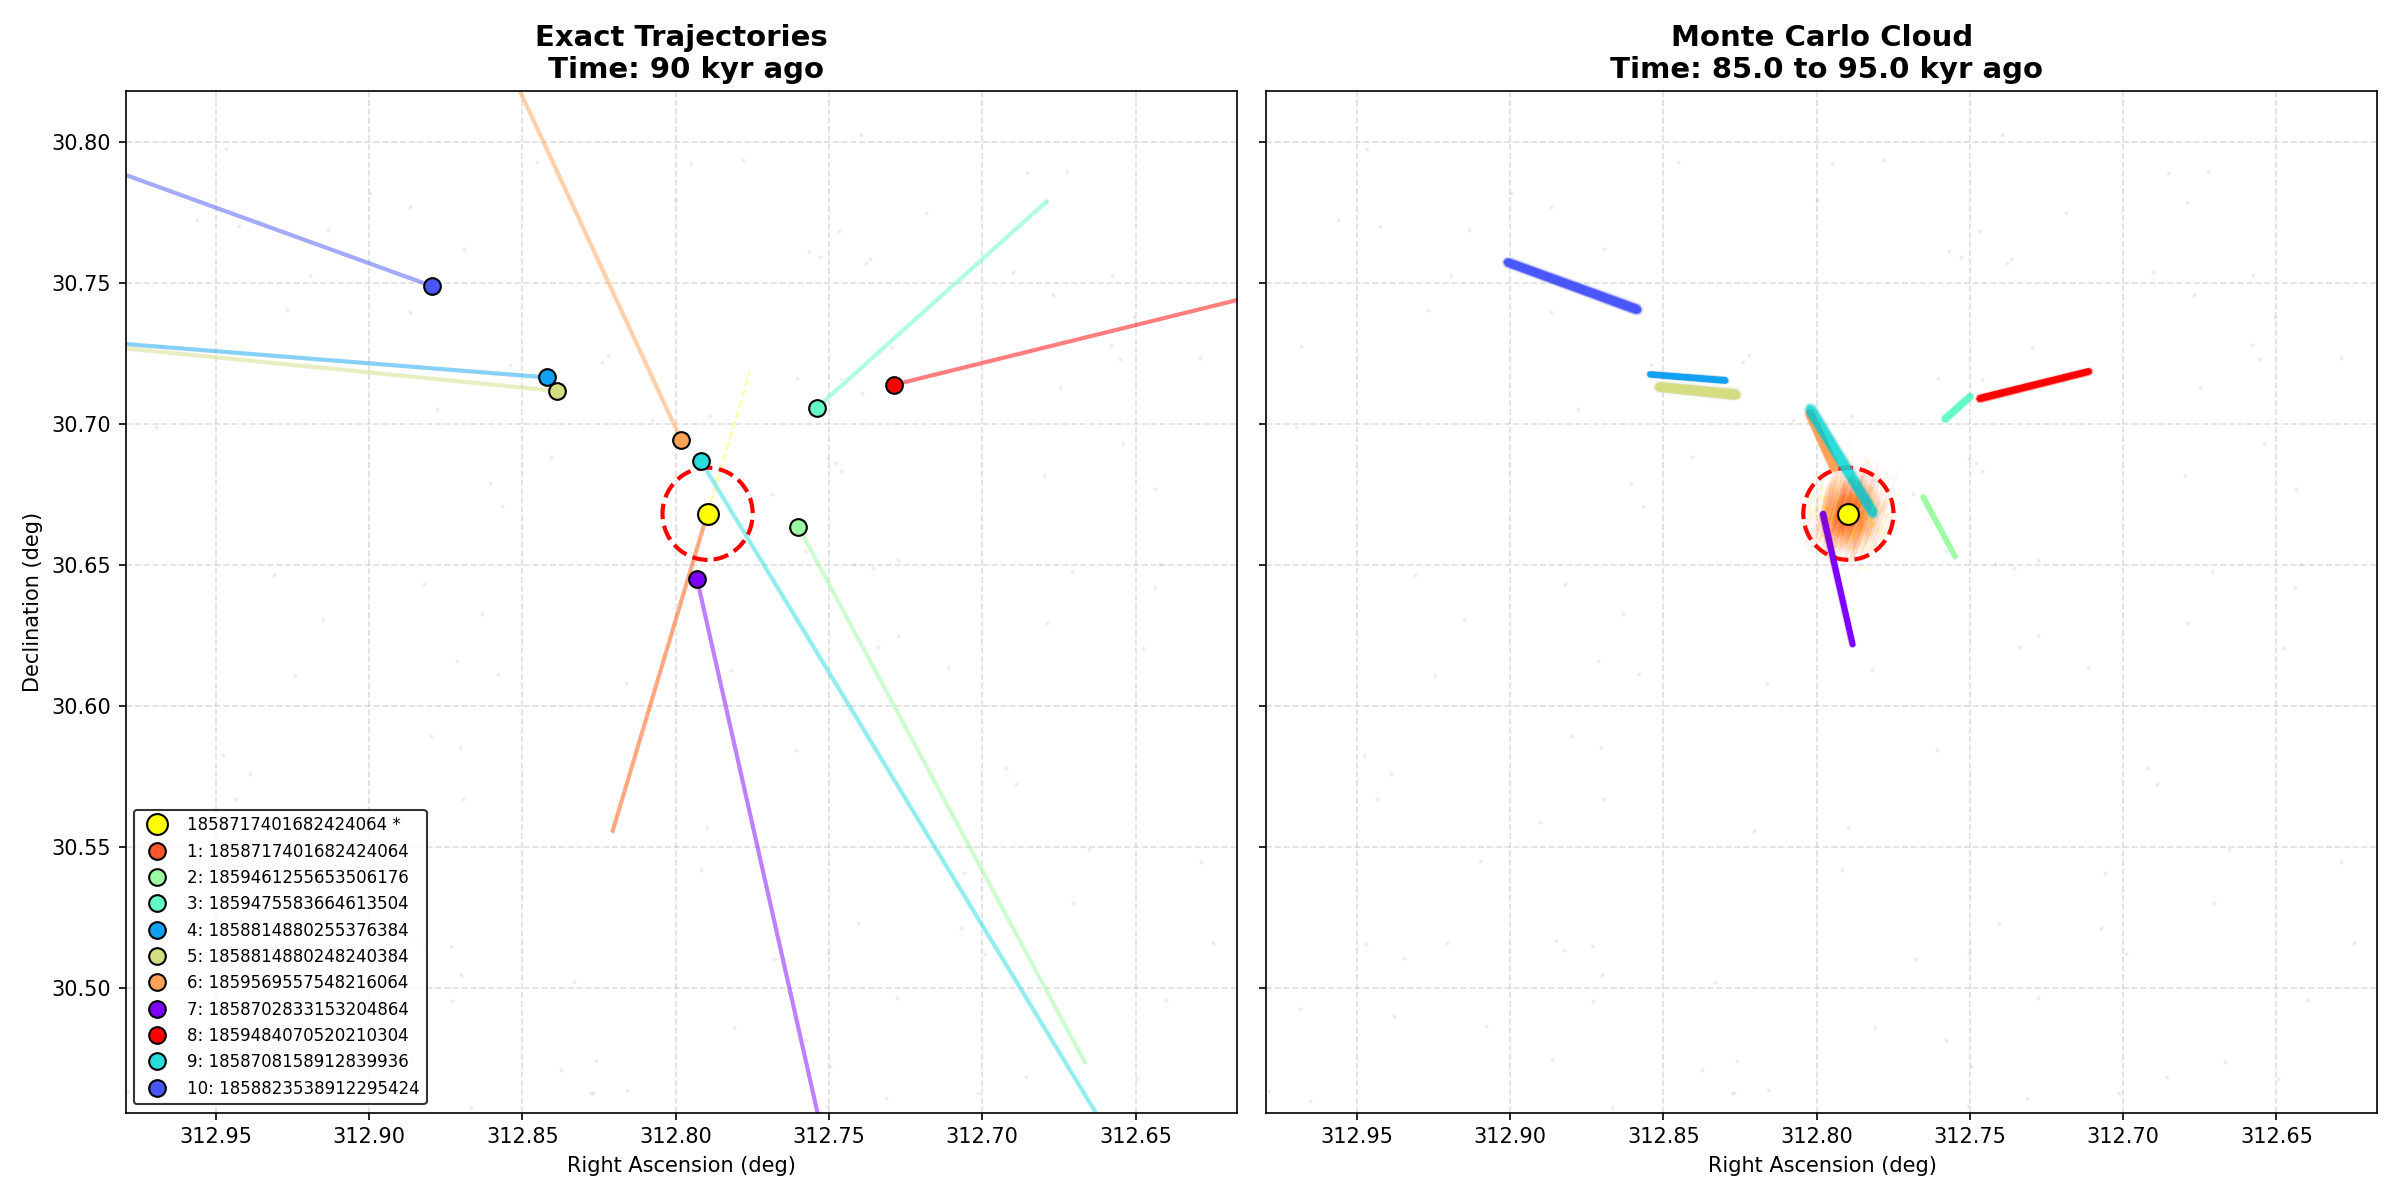
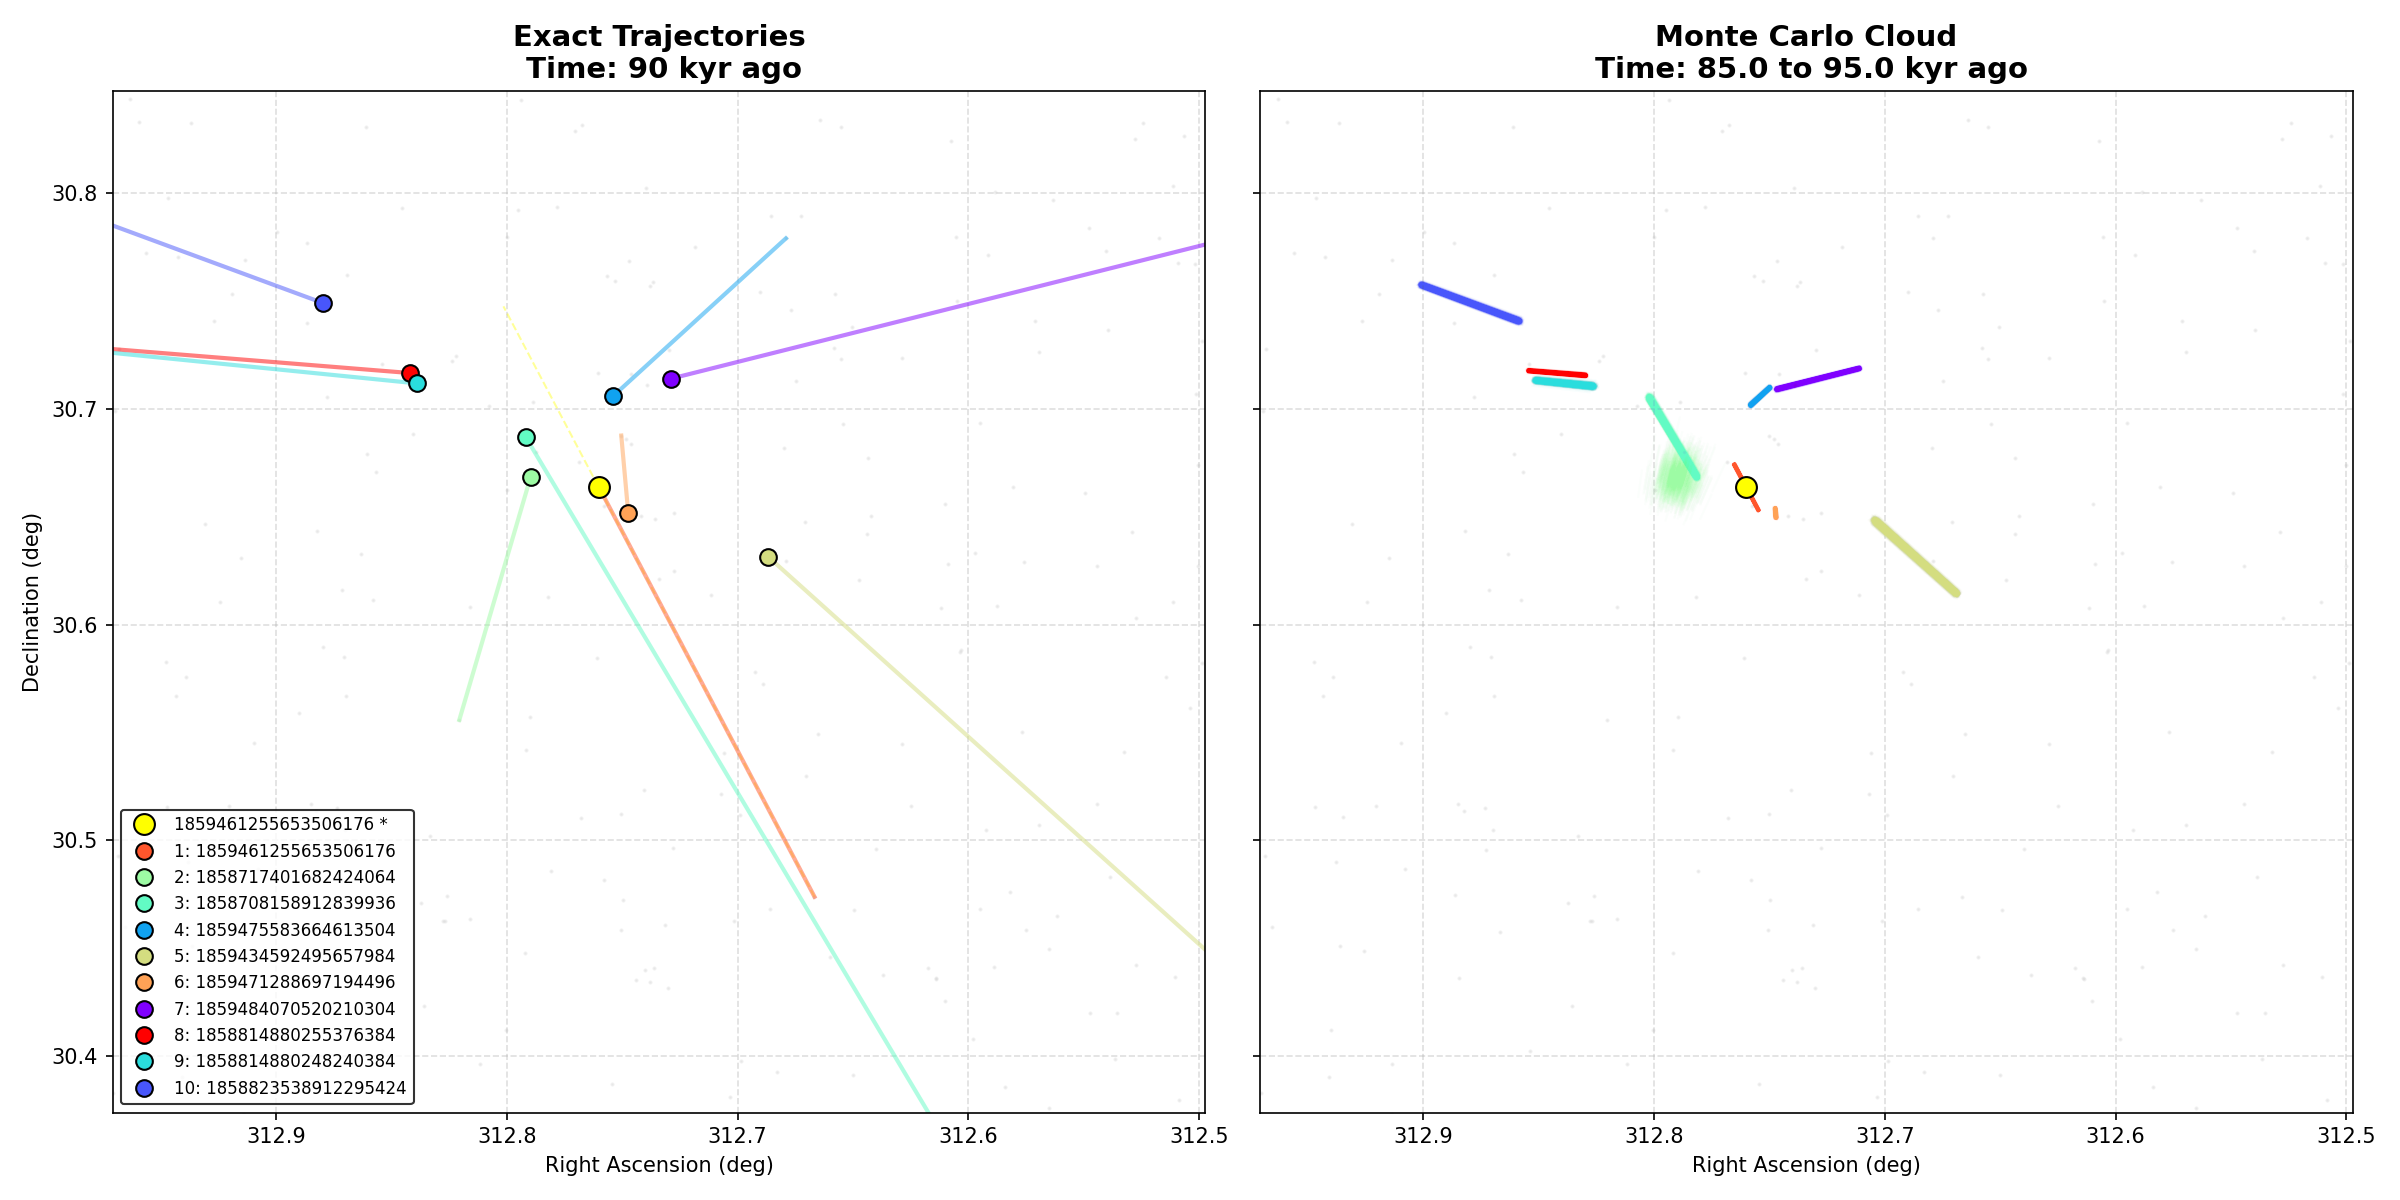
intersections probability

diff --git a/moving_target/moving_target.py b/moving_target/moving_target.py
@@ -5,6 +5,15 @@ from pygaia.astrometry.coordinates import EpochPropagation
 import extinction 
 from PIL import Image
 from matplotlib.patches import Ellipse
+import astropy.io.fits as fits
+from astropy.wcs import WCS
+from astropy.coordinates import SkyCoord
+from astropy.wcs.utils import proj_plane_pixel_scales
+import astropy.units as u
+import matplotlib.pyplot as plt
+import matplotlib.cm as cm
+import matplotlib.patches as patches
+
 
 
 np.random.seed(42)
@@ -17,7 +26,9 @@ target_id = '1858717401682424064'
 
 # TIME & SIMULATION PARAMETERS
 tau_mean = 100280      
-tau_error = 30020      
+tau_error = 30020
+tau_min = 70000
+tau_max = 135000      
 N = 1000               
 deg_from_center = 0.02  
 
@@ -96,6 +107,8 @@ ns_parallax = target_star['parallax']
 ns_pmra = target_star['pmra']
 ns_pmdec = target_star['pmdec']
 ns_rv = target_star['radial_velocity']
+ns_pmra_err = target_star['pmra_error']
+ns_pmdec_err = target_star['pmdec_error']
 
 print(f"Target parameters: PMRA={ns_pmra:.2f}, PMDEC={ns_pmdec:.2f}, RV={ns_rv:.2f}")
 
@@ -105,6 +118,7 @@ print(f"\nStarting Monte Carlo simulation (N={N}) for {len(df)} stars...")
 
 probabilities = []
 min_distances = []
+
 ep = EpochPropagation()
 
 for i, row in df.iterrows():
@@ -132,13 +146,14 @@ for i, row in df.iterrows():
     ns_ra_arr = np.full(N, np.radians(ns_ra))
     ns_dec_arr = np.full(N, np.radians(ns_dec))
     ns_px_arr = np.full(N, ns_parallax)
-    ns_pmra_arr = np.full(N, ns_pmra)
-    ns_pmdec_arr = np.full(N, ns_pmdec)
     ns_rv_arr = np.full(N, ns_rv)
+
+    ns_pmra_samples = np.random.normal(loc=ns_pmra, scale=ns_pmra_err, size=N)
+    ns_pmdec_samples = np.random.normal(loc=ns_pmdec, scale=ns_pmdec_err, size=N)
 
     ns_ra_past_rad, ns_dec_past_rad = ep.propagate_pos(
         ns_ra_arr, ns_dec_arr, ns_px_arr, 
-        ns_pmra_arr, ns_pmdec_arr, ns_rv_arr, 2016.0, 2016.0 - tau_samples
+        ns_pmra_samples, ns_pmdec_samples, ns_rv_arr, 2016.0, 2016.0 - tau_samples
     )
     ns_ra_past = np.degrees(ns_ra_past_rad)
     ns_dec_past = np.degrees(ns_dec_past_rad)
@@ -169,17 +184,126 @@ columns_to_print = ['source_id', 'crossing_probability', 'min_distance_deg', 'pm
 print(candidates[columns_to_print].head(10))
 
 
+# PROBABILITY
+
+top_candidates = candidates.head(10)
+colors = cm.rainbow(np.linspace(0, 1, len(top_candidates)))
+np.random.seed(99) 
+np.random.shuffle(colors)
+
+print("\nCalculating overlap probability at each time step for top candidates...")
+
+eval_times = np.arange(tau_min, tau_max, 1000)
+prob_over_time = {}
+
+for idx, (index, row) in enumerate(top_candidates.iterrows()):
+    np.random.seed(index)
+    
+    # Nube Monte Carlo de la candidata
+    pmra_samples = np.random.normal(loc=row['pmra'], scale=row['pmra_error'], size=N)
+    pmdec_samples = np.random.normal(loc=row['pmdec'], scale=row['pmdec_error'], size=N)
+    
+    ra_rad_arr = np.full(N, np.radians(row['ra']))
+    dec_rad_arr = np.full(N, np.radians(row['dec']))
+    px_arr = np.full(N, row['parallax'])
+    rv_arr = np.full(N, row['radial_velocity'])
+    
+    time_probs = []
+    
+    # vamos a cada step de tiempo específico (t)
+    for t in eval_times:
+        # Propagar Candidata
+        ra_past_rad, dec_past_rad = ep.propagate_pos(
+            ra_rad_arr, dec_rad_arr, px_arr, 
+            pmra_samples, pmdec_samples, rv_arr, 2016.0, 2016.0 - t
+        )
+        ra_past = np.degrees(ra_past_rad)
+        dec_past = np.degrees(dec_past_rad)
+        
+        # Propagar Target (usando las muestras ns_pmra_samples y ns_pmdec_samples)
+        ns_ra_past_rad, ns_dec_past_rad = ep.propagate_pos(
+            ns_ra_arr, ns_dec_arr, ns_px_arr, 
+            ns_pmra_samples, ns_pmdec_samples, ns_rv_arr, 2016.0, 2016.0 - t
+        )
+        ns_ra_past = np.degrees(ns_ra_past_rad)
+        ns_dec_past = np.degrees(ns_dec_past_rad)
+        
+        # distancia en ese instante exacto
+        d_ra = (ra_past - ns_ra_past) * np.cos(np.radians(ns_dec_past))
+        d_dec = (dec_past - ns_dec_past)
+        distances = np.sqrt(d_ra**2 + d_dec**2)
+        
+        # cuántos de los 1000 universos chocan en este año concreto
+        hits = np.sum(distances < deg_from_center)
+        time_probs.append(hits / N)
+        
+    prob_over_time[row['source_id']] = time_probs
+
+plt.figure(figsize=(10, 6))
+
+for idx, (index, row) in enumerate(top_candidates.iterrows()):
+    source = row['source_id']
+    probs = prob_over_time[source]
+    color = colors[idx] 
+    
+    if max(probs) > 0:
+        plt.plot(eval_times / 1000.0, probs, linewidth=2, marker='.', color=color, label=f"{idx + 1}: {source}")
+
+plt.axvline(x=tau_mean/1000.0, color='black', linestyle='--', linewidth=2, label='Supernova Est. Age (100 kyr)')
+
+plt.title('Kinematic Intersection Probability over Time', fontsize=14, fontweight='bold')
+plt.xlabel('Time into the past (kilo-years)', fontsize=12)
+plt.ylabel('Overlap Probability (Hits / N)', fontsize=12)
+plt.xlim(70, 135)
+plt.grid(True, linestyle='--', alpha=0.6)
+plt.legend(loc='upper right', fontsize=9)
+plt.tight_layout()
+plt.show(block=False)
+
+
+# EXPORT DETAILED CANDIDATES TABLE 
+
+print("\nGenerating professional Excel report with two sheets...")
+
+time_columns = [f"{int(t/1000)} kyr" for t in eval_times]
+
+cols_info = [
+    'source_id', 'crossing_probability', 'min_distance_deg',
+    'ra', 'dec', 'distance_pc', 'v_transverse', 'radial_velocity',
+    'abs_mag_g', 'bp_rp_color', 'A_V'
+]
+df_info = top_candidates[cols_info].copy()
+
+df_info.rename(columns={
+    'source_id': 'Gaia DR3 Source ID',
+    'crossing_probability': 'Global Hit Prob.',
+    'min_distance_deg': 'Min Dist (°)',
+    'ra': 'RA (deg)',
+    'dec': 'DEC (deg)',
+    'distance_pc': 'Dist (pc)',
+    'v_transverse': 'V_T (km/s)',
+    'radial_velocity': 'RV (km/s)',
+    'abs_mag_g': 'Abs Mag (Mg)',
+    'bp_rp_color': 'Color (BP-RP)0',
+    'A_V': 'Extinction (Av)'
+}, inplace=True)
+
+prob_data = {'Gaia DR3 Source ID': top_candidates['source_id'].values}
+
+for t_idx, t_val in enumerate(eval_times):
+    col_name = f"{int(t_val/1000)} kyr"
+    prob_data[col_name] = [prob_over_time[sid][t_idx] for sid in top_candidates['source_id']]
+
+df_probs = pd.DataFrame(prob_data)
+
+excel_filename = 'Top_Candidates_Analysis.xlsx'
+with pd.ExcelWriter(excel_filename, engine='openpyxl') as writer:
+    df_info.to_excel(writer, sheet_name='Astrophysical_Details', index=False)
+    df_probs.to_excel(writer, sheet_name='Time_Series_Probs', index=False)
+
+print(f"Excel file created: {excel_filename}")
+
 # DRAW 
-
-import astropy.io.fits as fits
-from astropy.wcs import WCS
-from astropy.coordinates import SkyCoord
-from astropy.wcs.utils import proj_plane_pixel_scales
-import astropy.units as u
-import matplotlib.pyplot as plt
-import matplotlib.cm as cm
-import matplotlib.patches as patches
-
 
 image = fits.open(fits_file)
 data = image[0].data 
@@ -218,10 +342,7 @@ target_circle = patches.Circle((target_past_x, target_past_y), radius=radius_pix
                                linewidth=2, alpha=0.8, zorder=4)
 ax1.add_patch(target_circle)
 
-top_candidates = candidates.head(10)
-colors = cm.rainbow(np.linspace(0, 1, len(top_candidates)))
-np.random.seed(99) 
-np.random.shuffle(colors)
+
 
 for idx, (index, row) in enumerate(top_candidates.iterrows()):
     color = colors[idx]
@@ -307,6 +428,9 @@ scat = plt.scatter(
     vmin=-0.5, vmax=3.5   
 )
 
+plt.vlines(x=1.0, ymin=-5, ymax=5.0, color='red', linestyle='--', linewidth=1.5, label='Color cut (BP-RP < 1)')
+plt.hlines(y=5.0, xmin=-1, xmax=1.0, color='green', linestyle='--', linewidth=1.5, label='Mag cut (M_G < 5)')
+
 cb = plt.colorbar(scat)
 cb.set_label('Temperature (Color BP-RP)')
 
@@ -354,7 +478,7 @@ if os.path.exists(output_folder):
     shutil.rmtree(output_folder)
 os.makedirs(output_folder)
 
-time_centers = np.arange(70000, 135000, 5000)
+time_centers = np.arange(tau_min, tau_max, 5000)
 time_window = 10000
 
 print("\nCreating the GIF...")
